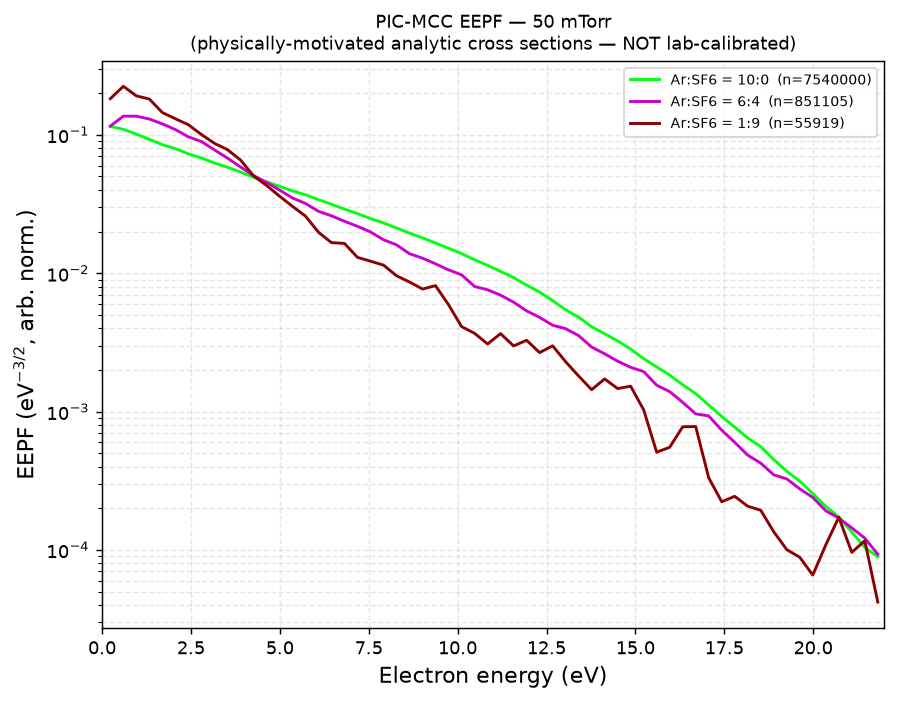
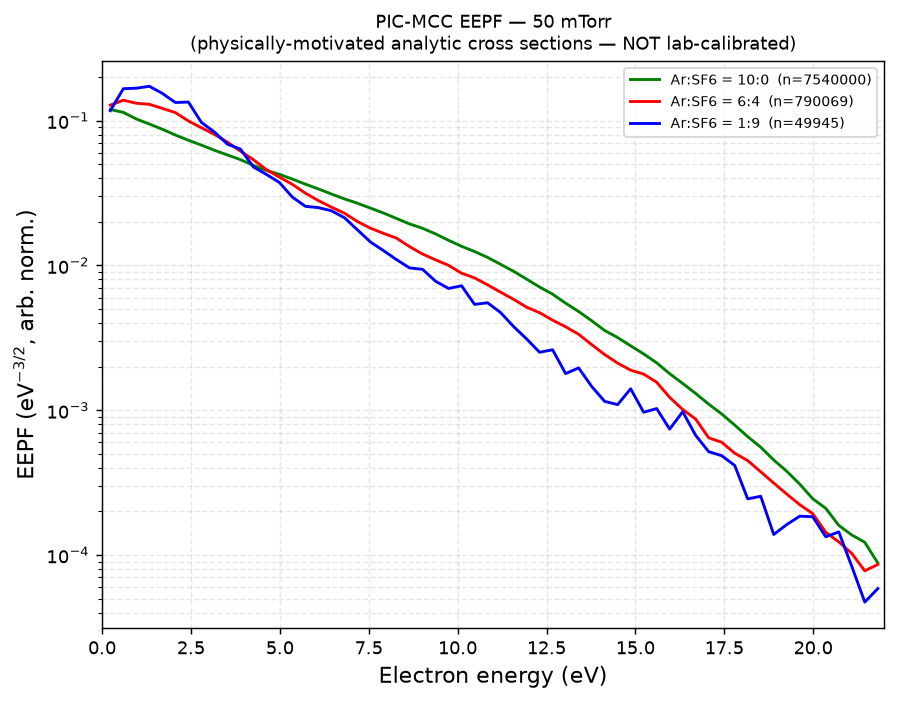
y_t_&_y_p_comparison

diff --git a/simple_simulation/eepf_ev.py b/simple_simulation/eepf_ev.py
@@ -326,9 +326,9 @@ def get_eepf(energies, bins=60, max_energy=22):
 PRESSURE_MTORR = 50.0   # <-- change this single value for different pressures
 
 ratios = [
-    ('10:0', 0.00, "#00FF11FF"),
-    ('6:4',  0.40, '#CC00CC'),
-    ('1:9',  0.90, '#8B0000'),
+    ('10:0', 0.00, "green"),
+    ('6:4',  0.40, "red"),
+    ('1:9',  0.90, "blue"),
 ]
 
 results = {}
